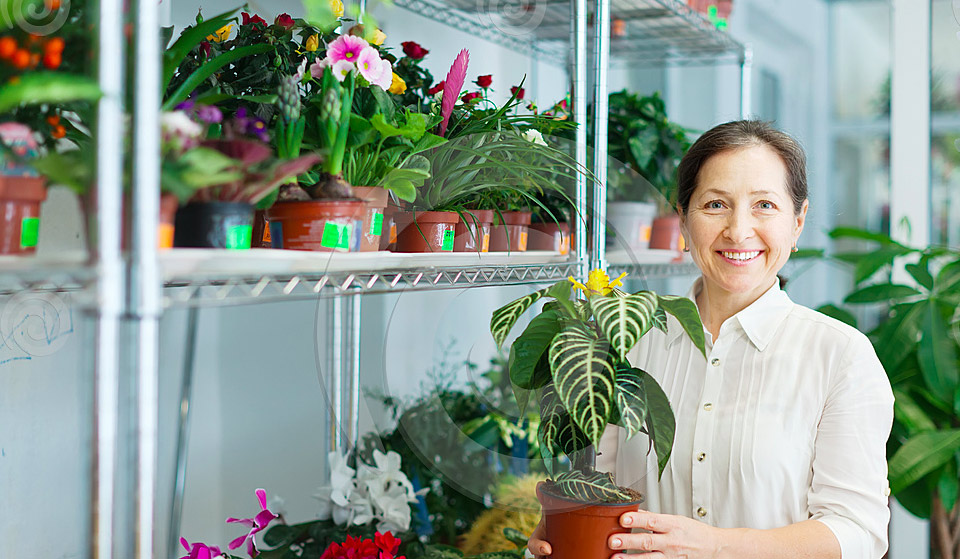
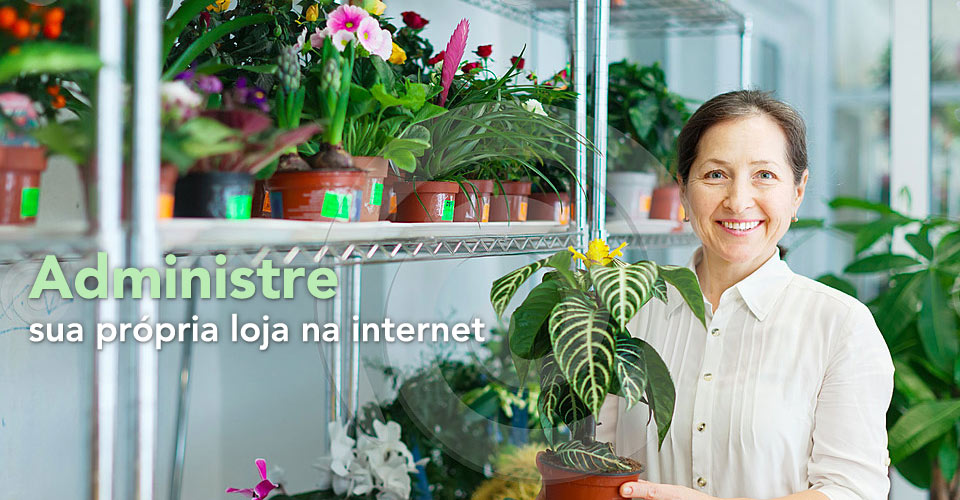
Updates merchan images

diff --git a/app/assets/stylesheets/marketing/style.sass b/app/assets/stylesheets/marketing/style.sass
@@ -11,7 +11,8 @@ body
   margin: 0
   padding: 0
   background: #efefef
-  // background: #1a7bb0
+  background: #1a7bb0
+  background: #0A3C57
   color: #222
   font-size: 87%
   font-family: "Helvetica Neue", "Lucida Grande", "Lucida Sans", "Verdana", sans-serif
@@ -175,6 +176,7 @@ li
   .merchan_container
     margin: 0 auto
     width: 960px
+    height: 500px
     display: table
     background: white
     position: relative
@@ -188,10 +190,37 @@ li
       font-size: 0
       width: 960px
 
+  .cycle-pager
+    text-align: center
+    width: 100%
+    z-index: 500
+    position: absolute
+    bottom: 10px
+    // overflow: hidden
+
+    span
+      font-family: arial
+      font-size: 50px
+      width: 16px
+      height: 16px
+      display: inline-block
+      color: #fff
+      cursor: pointer
+      text-shadow: 0 0 2px black
+      margin: 1px
+      opacity: 0.7
+
+    span.cycle-pager-active
+      color: lighten(#165c85, 30%)
+      opacity: 1
+
+    > *
+      cursor: pointer
+
   .intro_details
     border-radius: 2px
     position: absolute
-    bottom: 30px
+    bottom: 0px
     left: 20px
     z-index: 6000
     background: #efefef

diff --git a/app/assets/javascripts/marketing/lib/banners_effects.js b/app/assets/javascripts/marketing/lib/banners_effects.js
@@ -1,9 +1,11 @@
 $(document).ready(function() {
 
   // jquery cycle2 plugin
+  /*
   $(".main_page_central_transitional_banners").cycle({
     activePagerClass: "active",
     pager: ".main_page_central_transitional_banners_navigation"
   });
+  */
 
 });

diff --git a/config/deploy/staging.rb b/config/deploy/staging.rb
@@ -3,7 +3,7 @@ require 'bundler/capistrano'
 
 set :deploy_to, "/var/rails/#{application}"
 set :rails_env, "staging"
-set :branch, "master"
+set :branch, "49640099_marketing_page"
 set :user, "deployer"
 
 default_run_options[:pty] = true
